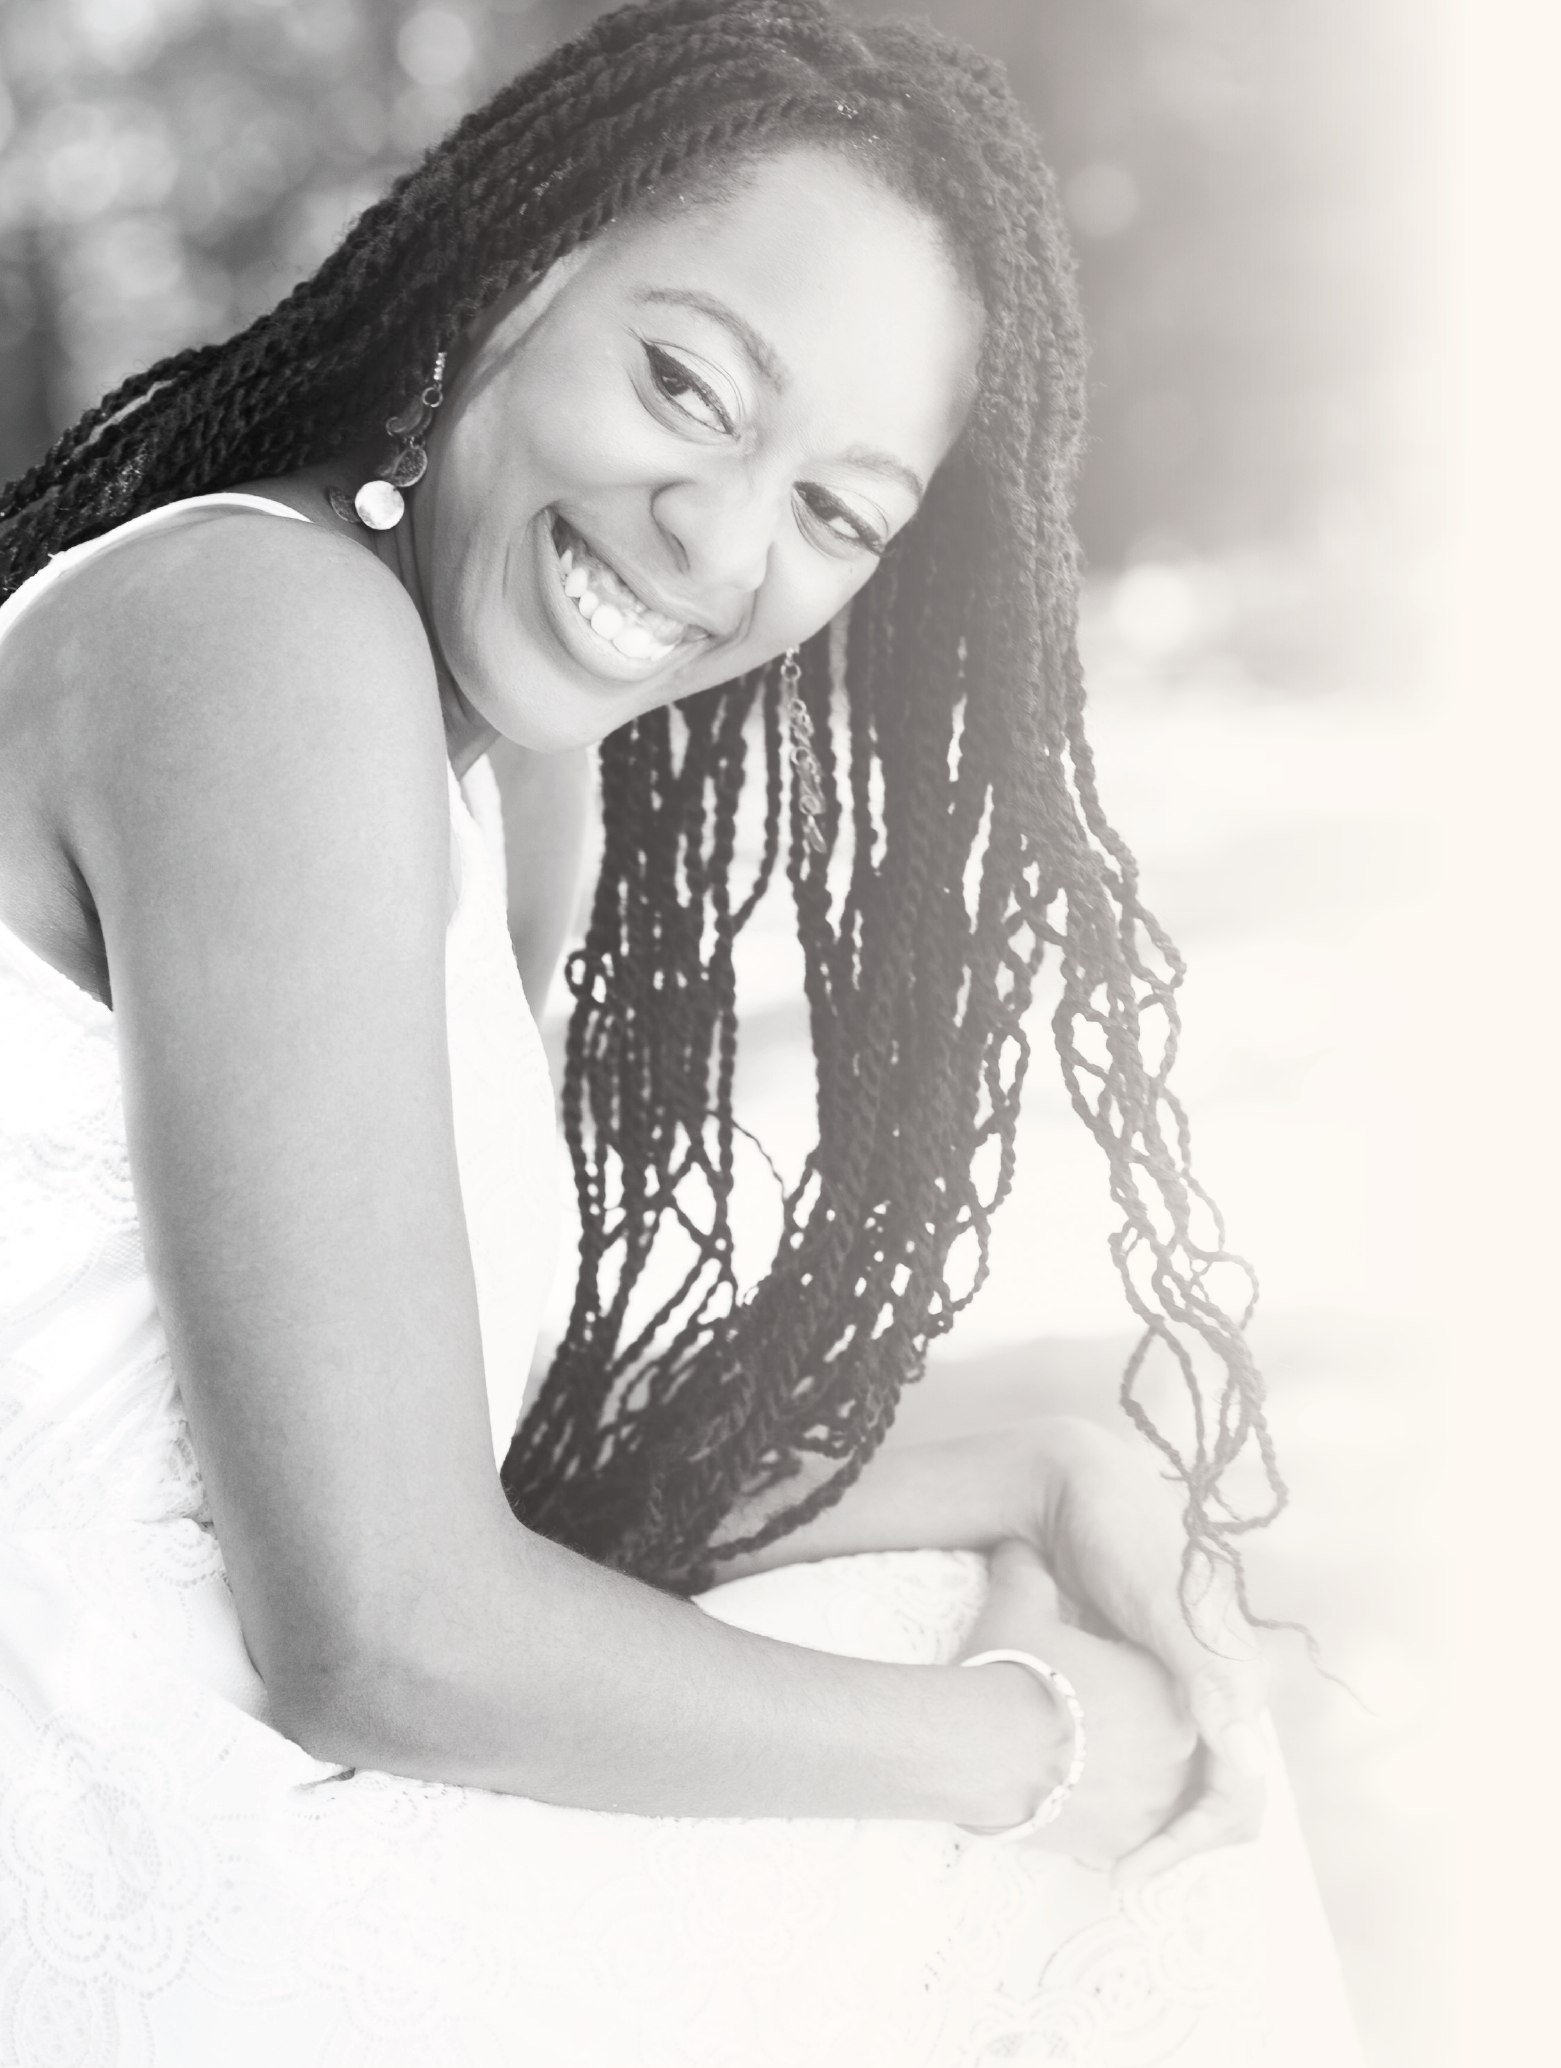
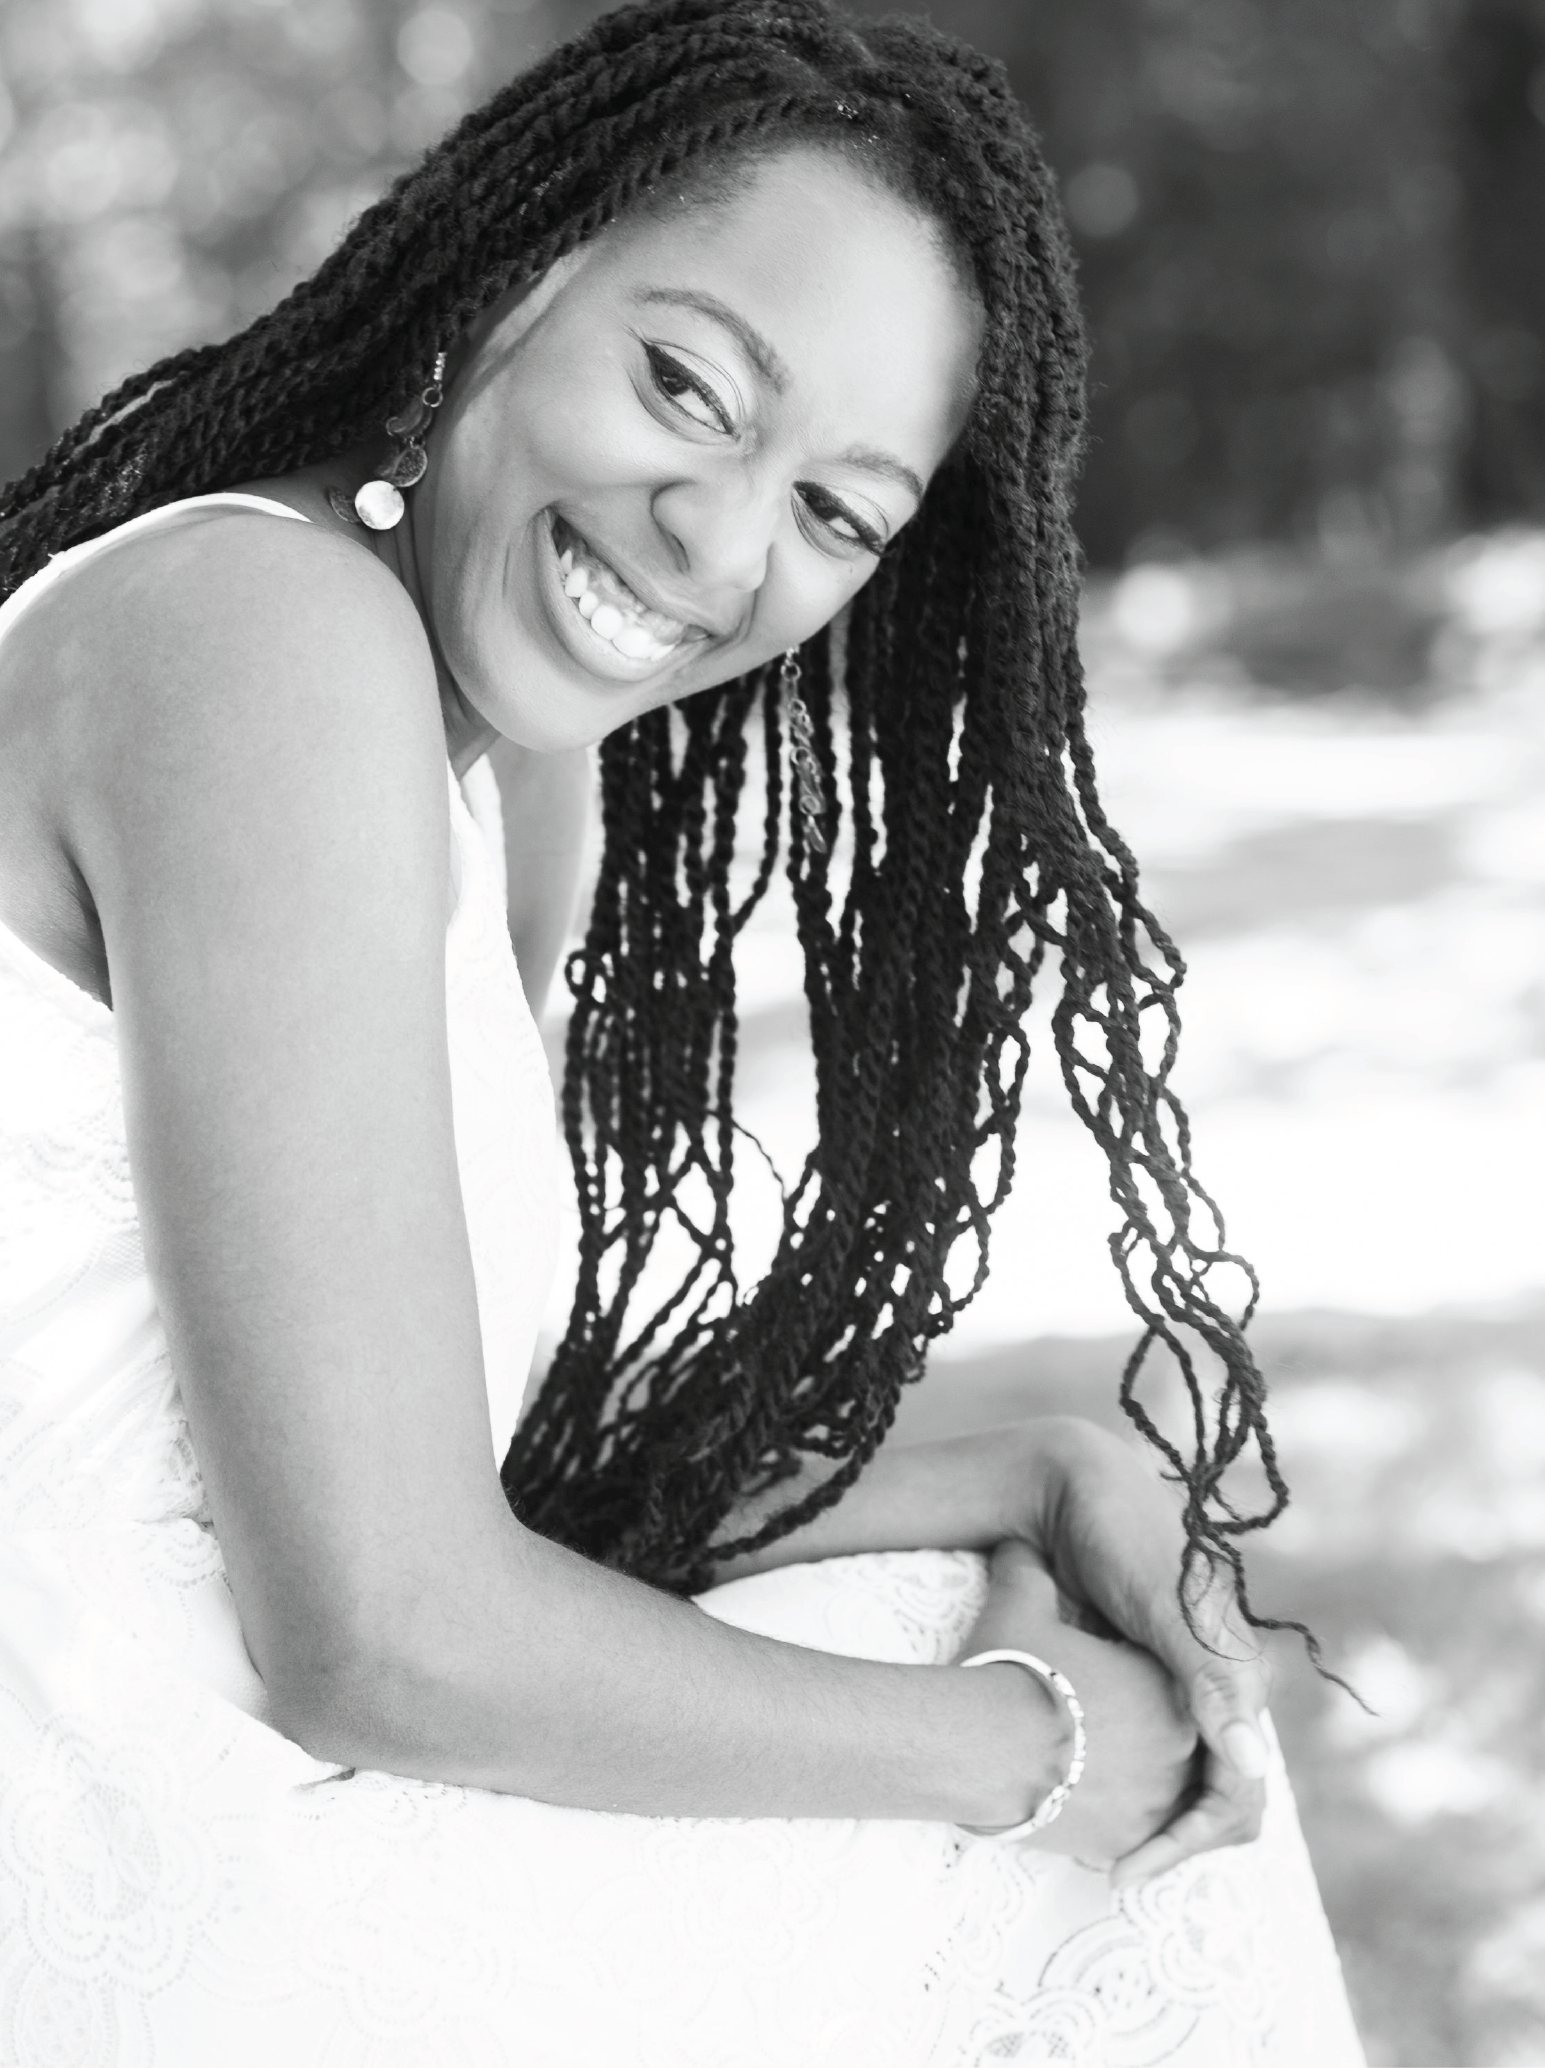
updated contact section image and styling

diff --git a/public/style.css b/public/style.css
@@ -133,8 +133,8 @@
   }
 
   .card {
-    height: 45vh;
-    margin-bottom: 1rem;
+    height: 40vh;
+    margin-bottom: 2rem;
   }
 
   .card-img-top {
@@ -192,6 +192,11 @@
   }
 
   .contact {
+    background-color: #FCF5EF;
+  }
+
+  .contact-img {
     background: linear-gradient(to right, transparent, #FCF5EF 95%), #FCF5EF url(./images/contactimg.png) no-repeat left;
-    background-size: contain;
+    background-size: cover;
+    margin: -15vh 0;
   }

diff --git a/client/components/home.js b/client/components/home.js
@@ -106,7 +106,7 @@ const Home = (props) => {
                         </div>
                     </div>
                     <div className="section contact row d-flex align-items-stretch">
-                            
+                        <div className="col-5 contact-img" />
                     </div>
                 </div>
                 </div>
